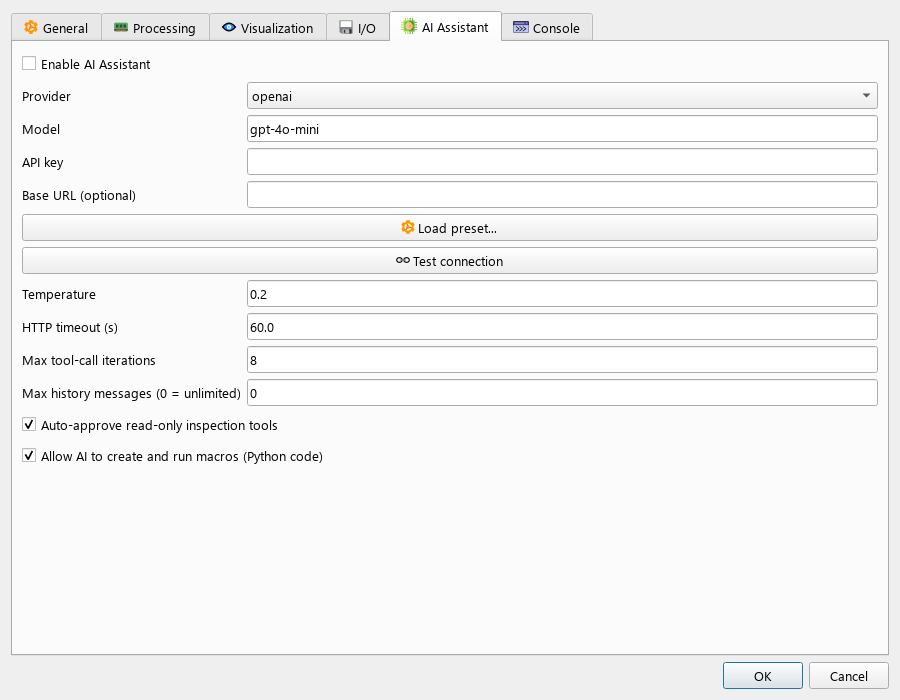
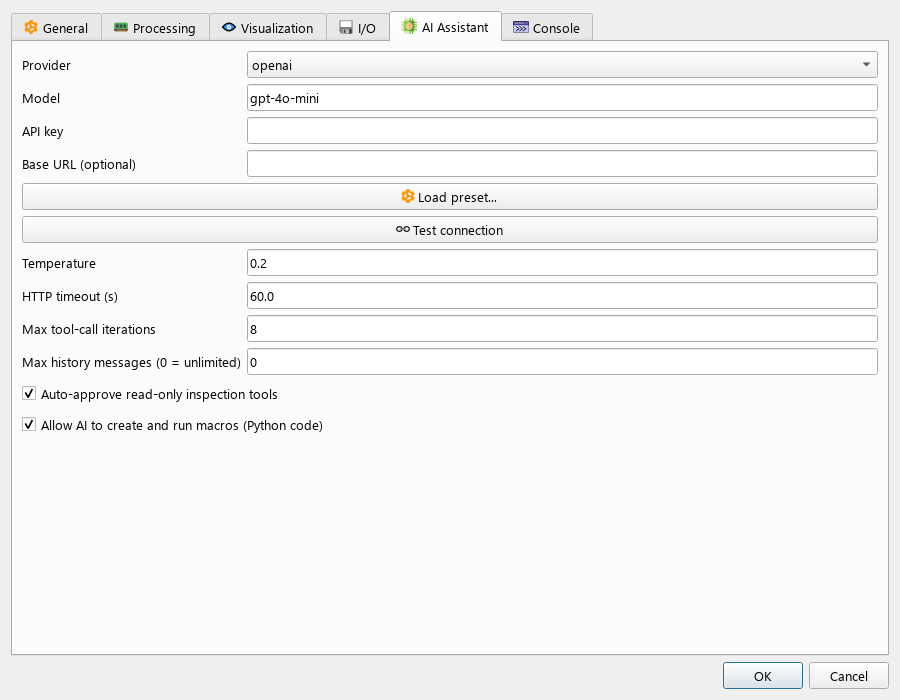
docs: correct pulse, phase, X-Y, AI and Web API descriptions
Align the documentation with the behavior found by the scientific
review and with the Sigima 1.4.1 corrections.

- Pulse amplitude: remove the peak-to-peak fallback, which the
  analysis never applies; document the bias of the default FWHM
  method and of pulse features on smooth peaks
- Periodic signals: phase entered in degrees, formulas in radians
- Enclosing circle, flat-field, X-Y mode and X replacement: hot
  pixels, near-zero flat fields, integer images, ROI, labels and units
- AI Assistant: no enable option, Settings... button, requests only
  on user action; settings screenshots
- Web API replacement order instead of "atomic", and comparability
  of DataLab and DataLab-Web results
- Laser beam tutorial: centroid row 674 and regenerated centroid
  screenshot, from the image and clipping value of the other steps
- Release notes and French translation

Closes #571

Assisted-by: Claude Opus 5.5

diff --git a/datalab/tests/scenarios/tutorial_screenshots.py b/datalab/tests/scenarios/tutorial_screenshots.py
@@ -325,9 +325,28 @@ def capture_blobs(directory: Path) -> None:
 
 
 def capture_laser_beam(directory: Path) -> None:
-    """Capture the results table, plot and calibration from the same measurements."""
+    """Capture the centroid, then the results table, plot and calibration from the
+    same measurements."""
     paths = helpers.get_test_fnames("laser_beam/TEM00_z_*.jpg")
     paths.sort(key=lambda path: int(path.split("_z_")[1].split(".")[0]))
+    with screenshot_app_context() as win:
+        # Centroid of the clipped image used in the first steps of the tutorial
+        image_panel = win.imagepanel
+        win.set_current_panel(image_panel)
+        image = sigima.io.read_image(
+            next(path for path in paths if path.endswith("TEM00_z_70.jpg"))
+        )
+        image.title = "TEM00_z_70.jpg"
+        image_panel.add_object(image)
+        image_panel.processor.run_feature("clip", sip.ClipParam.create(lower=35))
+        image_panel.processor.run_feature("centroid")
+        clipped = image_panel.objview.get_sel_objects()[0]
+        adapters = list(GeometryAdapter.iterate_from_obj(clipped))
+        assert len(adapters) == 1
+        # The tutorial extracts the profile of this row
+        assert int(adapters[0].get_column_values("y")[0]) == 674
+        save_screenshot(win, directory / "06.png")
+
     with screenshot_app_context() as win:
         panel = win.signalpanel
         measurements = []

diff --git a/doc/release_notes/release_1.04.md b/doc/release_notes/release_1.04.md
@@ -12,12 +12,14 @@
 
 * **Tutorial examples and metadata**: The custom denoising example no longer produces undefined values on constant image regions, and the Spyder tutorial no longer produces undefined values on grids containing the first peak position. The metadata paste dialog now explains that annotations are copied and pasted separately (fixes [Issue #567](https://github.com/DataLab-Platform/DataLab/issues/567)).
 * **Scientific processing (⚠ results change)**: With Sigima 1.4.1 or later, X–Y mode uses only the signals' common interval instead of extending one signal beyond its data, while retaining the interpolation confirmation; disjoint domains are refused. The enclosing circle now contains the selected pixel centers in physical coordinates, quadratic interpolation passes through the samples, pulse offsets retain their sign, and flat-field correction refuses zero denominators on corrected pixels. Previously recorded calls of these operations are refused at replay rather than silently giving different results; existing stored data is unchanged (fixes [Issue #565](https://github.com/DataLab-Platform/DataLab/issues/565) and [Sigima Issue #130](https://github.com/DataLab-Platform/Sigima/issues/130)).
+* **Integer images and X–Y mode (⚠ results change)**: with Sigima 1.4.1 or later, on signed integer images whose range of values exceeds the capacity of their type (e.g. `int16` values from -30000 to +30000), **Analysis > Minimum enclosing circle center** no longer gives a much too large circle, **Analysis > Contour detection** finds the contours, and **Analysis > 2D peak detection** no longer reports spurious peaks. **Flat-field correction** of an integer image now gives a floating-point image instead of wrapping the values exceeding the range of the image type. With a region of interest on the first signal, **X-Y mode** and **Replace X by other signal's Y** now keep only the points within this region, instead of mixing the original coordinates of the other points into the result. **X-Y mode** results now take the titles and units of the Y axes of the two signals, signals with different X units are refused, and signals sharing the same X grid are paired without interpolation. Previously recorded calls of the changed operations are refused at replay (fixes [Issue #571](https://github.com/DataLab-Platform/DataLab/issues/571) and [Sigima Issue #136](https://github.com/DataLab-Platform/Sigima/issues/136)).
 * **Plugin installation**: installing a plugin whose required packages are missing now names these packages and tells how to provide them, instead of reporting an unexplained "Dependency wheelhouse not found" error with a temporary folder.
 * **Brightness and contrast**: the **Minimum** and **Maximum** fields of **Processing > Exposure > Brightness and contrast** (in its dialog and in the **Processing** tab of the properties panel) showed numbers with 17 significant digits in fields too narrow for them, so that their beginning was cut off, e.g. `835736228608e-43` instead of `6.5127532828723551e-44`. These fields now show the complete value, with a precision matching that of the sliders (e.g. `0` and `1.7557`), and the exact value in their tooltip; a value which is not modified is kept exactly (fixes [Issue #510](https://github.com/DataLab-Platform/DataLab/issues/510)).
 * **Processing parameters**: moving the slider of a numeric parameter gave values such as `0.30000000000000004` or `1.2000000000000002` instead of `0.3` or `1.2`, which were then used and recorded as processing parameters, e.g. with **Sigmoid correction** and **Adaptive histogram equalization** (**Processing > Exposure**), the **Butterworth** filter (**Processing > Frequency filters**) or the signal **Peak detection** (**Analysis**). Slider values are now free of these spurious digits (fixes [Issue #510](https://github.com/DataLab-Platform/DataLab/issues/510)).
 * **Image coordinates**: since DataLab 1.2.0, **Set uniform coordinates** was missing from **Processing > Axis transformation** in the Image panel, so this feature could no longer be run from the menus. It is available again, next to **Polynomial calibration** (fixes [Issue #515](https://github.com/DataLab-Platform/DataLab/issues/515)).
 * **Web API**: starting the Web API server through the remote control (XML-RPC), e.g. with `RemoteProxy.start_webapi_server()`, used port 8080 instead of the automatic port (18080, or the next free one), so that DataLab-Kernel could not find the server automatically. Unless a port is given, the server now uses the automatic port, as when it is started from **File > Web API** (fixes [Issue #516](https://github.com/DataLab-Platform/DataLab/issues/516)).
-* **AI Assistant settings**: unchecking **Enable AI Assistant** now makes the other fields of the **AI Assistant** tab inactive. If the dialog opens with the assistant already disabled, the fields may initially remain editable; checking and unchecking the option refreshes them (partially fixes [Issue #517](https://github.com/DataLab-Platform/DataLab/issues/517)).
+* **AI Assistant**: the **Enable AI Assistant** option of the settings had no effect: the assistant remained available, although the documentation stated that no request was sent when it was disabled. This option is removed: the assistant contacts its provider only when you send a message or click **Test connection**, as the documentation now states. A new **Settings...** button of the **AI Assistant** panel opens the **AI Assistant** tab of the settings, and the messages of the panel point to **File > Settings** instead of a nonexistent **Edit > Preferences** menu (fixes [Issue #571](https://github.com/DataLab-Platform/DataLab/issues/571)).
+* **Visualization settings**: the **Downsampling max points** field could remain editable when the settings dialog opened with **Use auto downsampling** unchecked, e.g. after checking this option and cancelling the dialog. It now follows the checkbox as soon as the dialog opens (fixes [Issue #571](https://github.com/DataLab-Platform/DataLab/issues/571)).
 * **Stability analysis**: **Overlapping Allan variance** was missing from **Processing > Stability analysis** in the Signal panel, so it could only be computed with the other methods, through **All stability features...**. It is now listed with the other variances (fixes [Issue #518](https://github.com/DataLab-Platform/DataLab/issues/518)).
 * **Gaussian bandpass filter**: the **Inverse FFT result** parameter of **Processing > Frequency filters > Gaussian bandpass** had no effect: **Absolute value** gave the same image as **Real part**, although the parameter was recorded in the provenance as if it had been applied. With Sigima 1.4.1 or later, **Absolute value** gives the modulus of the inverse FFT, and the title of the result shows the chosen option; **Real part**, the default, gives the same result as before. Steps of this filter recorded with an earlier version are refused when they are verified or replayed, instead of giving another result (fixes [Sigima Issue #123](https://github.com/DataLab-Platform/Sigima/issues/123)).
 * **Cardinal sine signal**: the cardinal sine of **Create > Cardinal sine**, described as `y = y0 + A sinc(2π f x + φ)`, used the normalized definition `sinc(u) = sin(πu)/(πu)`: with a frequency of 1 Hz, its first zeros were at about ±0.159 instead of ±0.5. With Sigima 1.4.1 or later, it uses the definition `sinc(u) = sin(u)/u` (with `sinc(0) = 1`), as the **2D sinc** image, which is unchanged; the creation dialogs of both now show this definition. For the same parameters, a cardinal sine signal created, edited or recomputed from the History panel is now different; signals already created, e.g. in a saved workspace, keep their data (fixes [Sigima Issue #60](https://github.com/DataLab-Platform/Sigima/issues/60)).
@@ -33,6 +35,7 @@
 ### 📖 Documentation since version 1.4.0 ###
 
 * Corrected installation and remote-control instructions, descriptions of History and plugins, and tutorial screenshots so they reflect the current application (fixes [Issue #569](https://github.com/DataLab-Platform/DataLab/issues/569)).
+* Corrected the description of the pulse amplitude, which never falls back on the peak-to-peak amplitude, and documented the bias of the default FWHM method on smooth peaks, the unit of the phase of periodic signals (degrees in the dialogs), the effect of hot pixels on the enclosing circle, of near-zero values on the flat-field correction, how the Web API replaces an object, and the cases where DataLab and DataLab-Web results can be compared. The laser beam tutorial now gives the centroid row used by its screenshots (fixes [Issue #571](https://github.com/DataLab-Platform/DataLab/issues/571)).
 * Updated the Fabry-Pérot, spectrum and blob-detection tutorial screenshots, the startup page, settings and History panel to match the current interface. Maintainers can regenerate these figures with a single Qt-based script, without manual desktop captures or changes to personal preferences (fixes [Issue #520](https://github.com/DataLab-Platform/DataLab/issues/520)).
 * Translated card titles in the French documentation now show the same icons as their English counterparts, on the home page and the main section pages (fixes [Issue #536](https://github.com/DataLab-Platform/DataLab/issues/536)).
 * The [DataLab plugin catalog](https://datalab-platform.com/plugins/) is now presented on the home page, in the navigation bar and in the pages describing the platform, its key features and how to contribute

diff --git a/doc/features/signal/menu_analysis.rst b/doc/features/signal/menu_analysis.rst
@@ -88,6 +88,14 @@ Compute the Full Width at Half-Maximum (FWHM) of selected signal, using one of t
 
     The computed result is displayed as an annotated segment.
 
+.. note::
+
+    The **Zero-crossing** method (default) estimates the baseline and the amplitude
+    from the data: it is robust to noise, but it overestimates the width of smooth
+    peaks, e.g. by about 2.5 % to 7 % for a noise-free Gaussian peak, depending on
+    the baseline level. For a peak of known shape, prefer the corresponding fitting
+    method (**Gauss**, **Lorentz** or **Voigt**).
+
 Full width at 1/e²
 ^^^^^^^^^^^^^^^^^^
 
@@ -271,7 +279,7 @@ The analysis computes the following pulse characteristics:
     * - Polarity
       - Signal polarity (+1 for positive, -1 for negative pulses)
     * - Amplitude
-      - Absolute difference between the baseline and plateau means; for a square pulse, peak-to-peak is used as a fallback if polarity cannot be determined
+      - Absolute difference between the baseline and plateau means; the analysis requires usable baseline and plateau regions
     * - Offset
       - Mean of the initial baseline, with its original sign in Sigima 1.4.1 or later
     * - Rise time
@@ -291,7 +299,7 @@ The analysis computes the following pulse characteristics:
 
 .. note::
 
-    Results are displayed in a table and as visual annotations on the signal plot. For step signals, fall-related parameters (fall_time, fwhm) are not applicable; columns containing only unavailable values may be omitted. The feature works best with well-defined pulse signals that have clear baseline regions.
+    Results are displayed in a table and as visual annotations on the signal plot. For step signals, fall-related parameters (fall_time, fwhm) are not applicable; columns containing only unavailable values may be omitted. The feature works best with well-defined pulse signals that have clear baseline regions. For smooth peaks (e.g. Gaussian ones), the amplitude is underestimated and the FWHM overestimated by several percent, depending on the baseline level: for a peak of known shape, prefer a fitting method.
 
 Show results
 ^^^^^^^^^^^^

diff --git a/doc/features/advanced/ai_assistant.rst b/doc/features/advanced/ai_assistant.rst
@@ -22,8 +22,9 @@ signals and images, and write and run Python macros on your behalf.
 Getting started
 ---------------
 
-1. Open ``File > Settings``, go to the **AI Assistant** tab and enable the
-   assistant (see :ref:`ai-assistant-settings` for the complete list of options).
+1. Open ``File > Settings`` and go to the **AI Assistant** tab, or click the
+   **Settings...** button of the AI Assistant panel (see
+   :ref:`ai-assistant-settings` for the complete list of options).
 2. Choose a provider and a model, then set the API key — or, better, leave the
    field empty and export the provider's standard environment variable.
 3. Click **Test connection** to check the endpoint before starting.
@@ -61,6 +62,8 @@ The panel is made of a toolbar, the conversation view and an input box:
 - **History...**: browse past conversations, load, rename or delete them, and
   **export** one as a Markdown file. Conversations are stored in the DataLab
   user configuration directory.
+- **Settings...**: open the **AI Assistant** tab of the settings dialog
+  (provider, model, API key...).
 - **Send** / **Stop**: send the current message, or interrupt an ongoing
   request. Requests run in a background thread, so the interface stays
   responsive.
@@ -162,6 +165,11 @@ the refusal to the model, which may then propose something else.
 Privacy and security
 --------------------
 
+- **No request without your action**: the assistant contacts its provider only
+  when you send a message in the panel, or when you click **Test connection** in
+  the settings. Opening the panel or DataLab sends nothing. Note that with the
+  ``openai`` provider, a key found in the ``OPENAI_API_KEY`` environment
+  variable is used even if the *API key* field is empty.
 - **No telemetry**: DataLab does not log or forward the content of your
   conversations anywhere else than to the provider you configured.
 - **Local providers**: to keep everything on your machine, point the *Base URL*

diff --git a/doc/features/signal/menu_processing.rst b/doc/features/signal/menu_processing.rst
@@ -64,7 +64,9 @@ This feature is particularly useful for calibration scenarios, such as:
 - Combining signals where one contains calibration points
 
 The two signals must have the same number of points. The operation directly uses
-the Y arrays without interpolation.
+the Y arrays without interpolation. With Sigima 1.4.1 or later, if the first
+signal has a region of interest, only its samples within this region are kept,
+and the result has no region of interest.
 
 .. list-table::
     :header-rows: 1
@@ -88,9 +90,14 @@ This operation plots one signal as a function of another by:
 2. Resampling both signals onto a common X grid within that overlap
 3. Using the resampled Y values as coordinates (first signal's Y as X, second signal's Y as Y)
 
-With Sigima 1.4.1 or later, the common grid is uniform, with the smaller of the
-two input point counts, and non-overlapping domains are rejected. Earlier Sigima
-versions may extend an operand beyond its original domain in DataLab.
+With Sigima 1.4.1 or later, signals sharing the same X grid are paired without
+interpolation; otherwise, the common grid is uniform, with the smaller of the
+two input point counts. Non-overlapping domains and signals with different X
+units are rejected. If the first signal has a region of interest, only the
+points within it are kept, and the result has no region of interest. The X and
+Y labels and units of the result are those of the Y axes of the first and
+second signals. Earlier Sigima versions may extend an operand beyond its
+original domain in DataLab.
 
 .. note::
 

diff --git a/doc/intro/ecosystem.rst b/doc/intro/ecosystem.rst
@@ -184,9 +184,10 @@ DataLab vs DataLab-Web
 DataLab-Web shares the **computation engine** (Sigima) with the desktop application and
 exposes a curated subset of its processing catalog. The very same Sigima code — not a port —
 runs on CPython (desktop) and on Pyodide (browser). For operations available in both editions,
-compatible versions of Sigima give identical results, or results within the tolerance
-declared by the operation contract. The available operations and runtime environment differ
-between editions.
+compatible versions of Sigima use the same algorithms and parameters, but numerical
+equivalence depends on the inputs and the numerical environment. Most operation contracts
+declare an exact or tolerance-based comparison of replayed results; a few declare no
+comparison rule. The available operations and runtime environment differ between editions.
 
 .. list-table::
     :header-rows: 1

diff --git a/doc/features/common/settings.rst b/doc/features/common/settings.rst
@@ -418,18 +418,13 @@ AI Assistant
 ------------
 
 The AI Assistant settings tab configures the built-in conversational assistant
-(see :ref:`ai_assistant`). Unchecking **Enable AI Assistant** makes the other
-fields inactive. When the dialog opens with the assistant already disabled,
-the fields may initially remain editable; checking and unchecking the option
-refreshes their state.
+(see :ref:`ai_assistant`). The **Settings...** button of the AI Assistant panel
+opens this tab directly. The assistant contacts its provider only when you send
+a message or click **Test connection**.
 
 .. figure:: /images/shots/settings_ai.png
 
     The AI Assistant settings tab.
-
-**Enable AI Assistant**
-    Enable the AI Assistant panel. When disabled, no request is ever sent to an
-    external service.
 
 **Provider**
     Backend used to serve the model. ``openai`` covers every OpenAI-compatible

diff --git a/doc/features/signal/menu_create.rst b/doc/features/signal/menu_create.rst
@@ -143,6 +143,11 @@ Create a new signal from various models:
 For Gaussian, Lorentzian and Voigt models, :math:`A` is the signed peak height
 above the baseline :math:`y_0`, expressed in the signal's Y unit.
 
+For the sine, cosine, sawtooth, triangle, square and cardinal sine signals, the
+phase :math:`\phi` is entered in degrees in the creation dialog, while the
+formulas above use it in radians. The initial phase :math:`\phi_0` of the linear
+chirp is entered in radians.
+
 The cardinal sine uses the unnormalized definition
 :math:`\sinc(u) = \dfrac{\sin(u)}{u}`, with :math:`\sinc(0) = 1`, as the 2D sinc
 image: when :math:`\phi = 0`, its peak is at :math:`x = 0` and its first zeros

diff --git a/doc/features/advanced/webapi.rst b/doc/features/advanced/webapi.rst
@@ -202,7 +202,10 @@ the ``Content-Disposition`` header using the RFC 5987 ``filename*`` form.
 
 The ``PUT /objects/{name}/data`` endpoint creates a new object with the given
 name, or returns ``409 Conflict`` if it already exists. Pass
-``?overwrite=true`` to atomically replace the existing object.
+``?overwrite=true`` to replace the existing object: the new object is added
+first, then the existing one is removed, so that the existing object is kept if
+the new one cannot be added. While the replacement is in progress, the workspace
+briefly contains both objects.
 
 Computation (Auth Required)
 ^^^^^^^^^^^^^^^^^^^^^^^^^^^

diff --git a/doc/features/image/menu_operations.rst b/doc/features/image/menu_operations.rst
@@ -335,6 +335,10 @@ ignoring NaNs. For an image with no NaNs:
 If no ROI is defined, all pixels above the threshold are corrected. With Sigima
 1.4.1 or later, a zero flat-field value at a corrected pixel is rejected;
 zero values outside the ROI or at pixels excluded by the threshold are allowed.
+Flat-field values close to zero strongly amplify the noise of the corrected
+pixels. With Sigima 1.4.1 or later, correcting an integer image gives a
+floating-point image, instead of wrapping the values exceeding the range of the
+image type.
 
 .. note::
 

diff --git a/doc/features/image/menu_analysis.rst b/doc/features/image/menu_analysis.rst
@@ -166,7 +166,9 @@ Minimum enclosing circle center
 With Sigima 1.4.1 or later, compute the smallest circle containing the physical
 centers of the pixels strictly above the midpoint of the image value range.
 The X and Y units must match. Earlier versions fit a contour and could leave
-selected pixel centers outside the circle.
+selected pixel centers outside the circle. A single isolated hot pixel above the
+threshold enlarges the circle: the result is not a robust measure of a beam
+width.
 
 2D peak detection
 ^^^^^^^^^^^^^^^^^

diff --git a/doc/intro/tutorials/laser_beam.rst b/doc/intro/tutorials/laser_beam.rst
@@ -165,7 +165,7 @@ To do this, select "Analysis > Centroid" from the menu.
 
 Next, we can extract a line profile along the horizontal axis using
 "Analysis > Intensity profiles > Line profile...". Set the Y coordinate of the
-row to the Y coordinate of the previously computed centroid (i.e., 668) using the
+row to the Y coordinate of the previously computed centroid (i.e., 674) using the
 "Edit profile parameters" button.
 See :ref:`tutorial_fabry_perot` for more details on intensity profile extraction.
 
